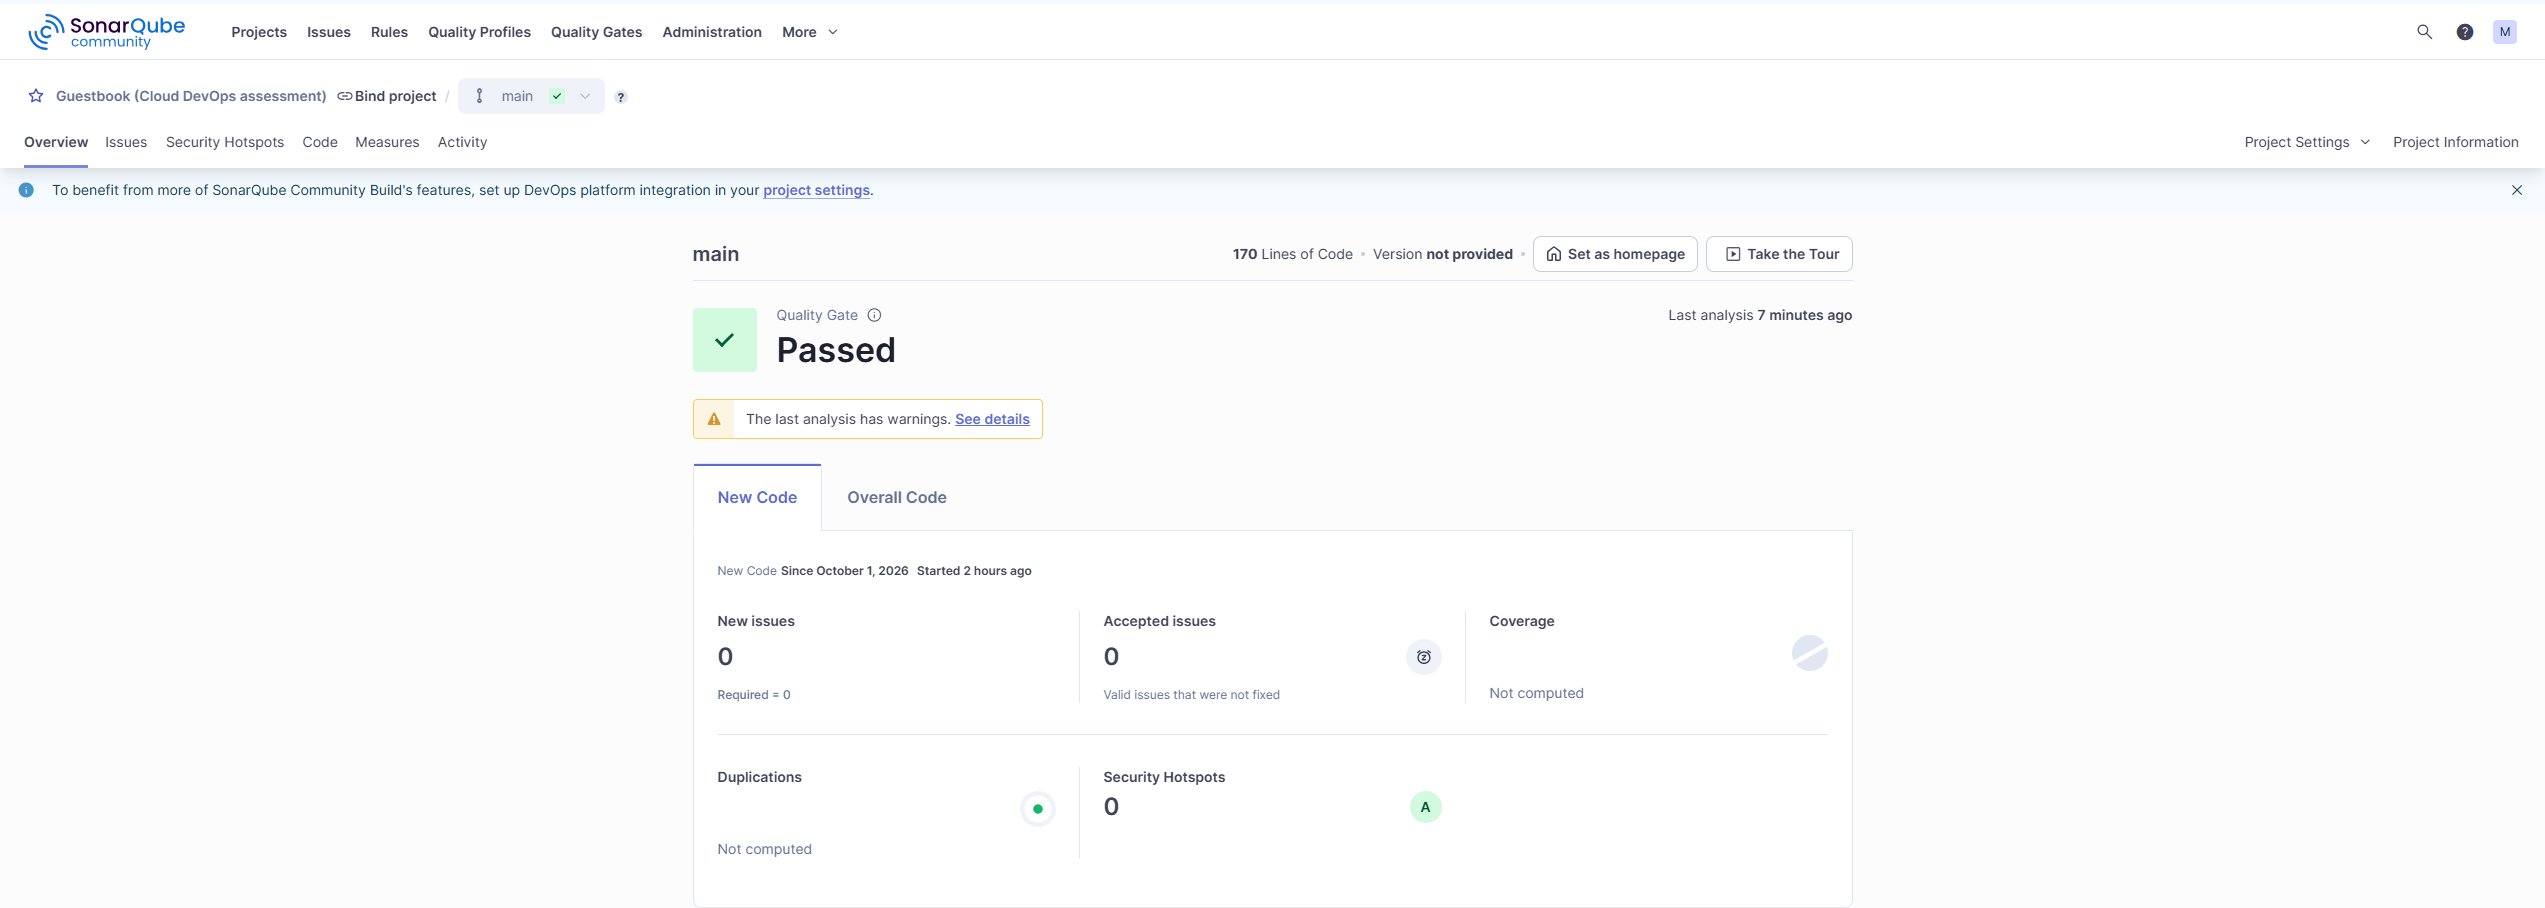
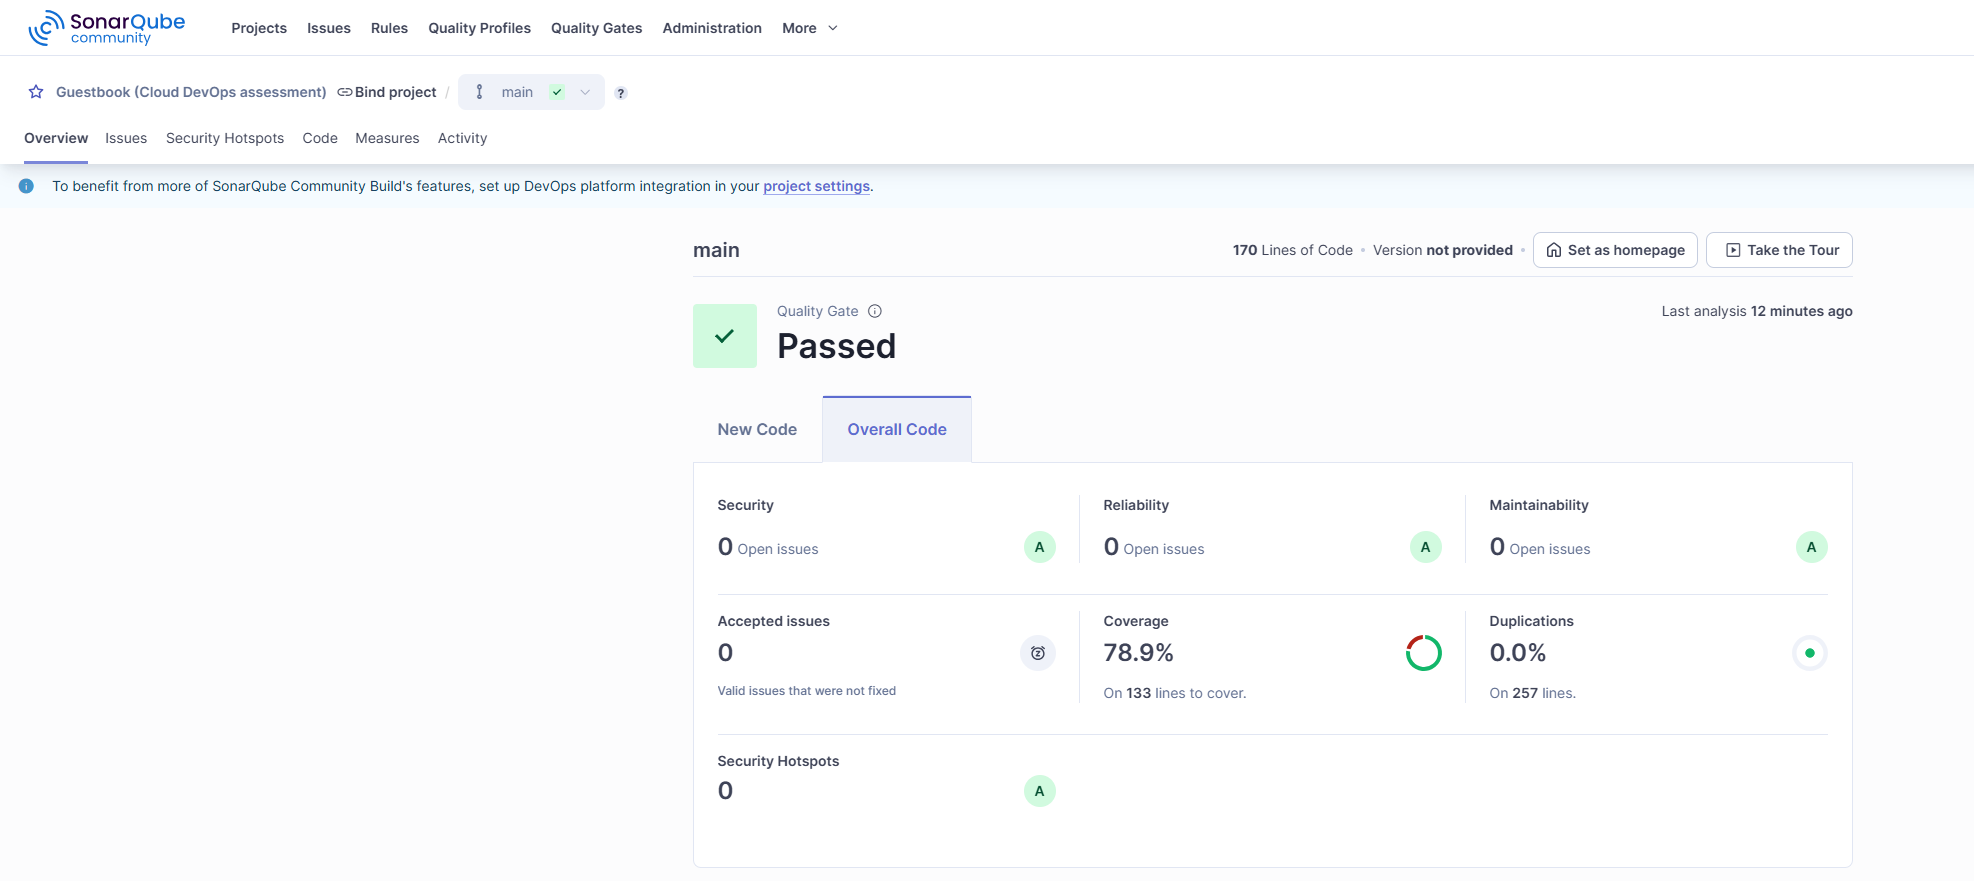
Evidence: SonarQube with coverage (78.9 %), Docker Hub image

diff --git a/README.md b/README.md
@@ -1135,7 +1135,7 @@ Screenshots from the live dev deployment. **Click any image to open it full size
 
 [![02-tests](docs/evidence/02-tests.png)](docs/evidence/02-tests.png)
 
-**03 · sonarqube**: SonarQube **quality gate: Passed**. 0 new issues, 0 security hotspots (rating A).
+**03 · sonarqube**: SonarQube **quality gate: Passed** (Overall Code): **coverage 78.9 %**, 0 security, reliability and maintainability issues (all **A**), 0 % duplication, 0 security hotspots.
 
 [![03-sonarqube](docs/evidence/03-sonarqube.png)](docs/evidence/03-sonarqube.png)
 
@@ -1198,6 +1198,16 @@ Screenshots from the live dev deployment. **Click any image to open it full size
 **10c · scaling event**: Service events: *"Successfully set desired count to 3 … Cause: monitor alarm TargetTracking-…-AlarmHigh in state ALARM triggered policy guestbook-dev-api-requests"*, then 2 tasks started, 2 targets registered and steady state reached.
 
 [![10c-scaling-event](docs/evidence/10c-scaling-event.png)](docs/evidence/10c-scaling-event.png)
+
+### Registry
+
+**12 · dockerhub**: the public image [`moes98/test2026`](https://hub.docker.com/r/moes98/test2026/tags), pushed by the pipeline. `latest` and the commit tag `eeb55e51` share **one digest** (`c109b8215de2`), the exact image that passed Trivy, at **33 MB compressed**.
+
+[![12-dockerhub](docs/evidence/12-dockerhub.png)](docs/evidence/12-dockerhub.png)
+
+```bash
+docker pull moes98/test2026:latest
+```
 
 ### Not included
 
